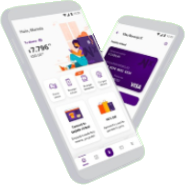
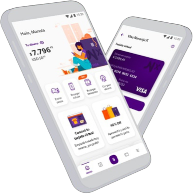
feat: draw the Galicia lockup, and take the artwork the second time round
Two things the row was missing and one it was getting wrong.

THE LOGOTYPE. The last card says «Somos parte del» and then stopped at a
line of type, on the argument that reproducing a third party's mark is
the one thing here that stops being a quotation. That argument was
overruled, and it holds up on inspection: the sentence names a company
and hangs in mid-air without it, this is nominative use, and the file is
the one Commons carries as public domain — below the threshold of
originality, trademark intact, credited to the group itself. The footer
already says the page is unofficial and the marks are their owners'.

`mark` is not dropped for it, it becomes the alt: the card reads «Somos
parte del Grupo Galicia» seen or spoken. And no colour of ours goes near
it. The rule above deepens OUR accent to clear 4.6:1 on peach; that
argument has no business being applied to somebody else's mark, so the
logotype lands at the orange it is drawn in.

THE ARTWORK, replaced with the four supplied second. These arrive with a
real alpha channel, so none of the keying the last commit needed applies
— just a trim of the transparent margin. Checked on violet, orange and
peach: no fringe anywhere, which is what a proper export looks like next
to one lifted off a baked ground.

THE CARD WAS CUT and is not any more. The old crop ran off its own
canvas at 167x192; the new file holds the whole card at 187x203.

Resolution improves and does not arrive. Measured against the box, which
[…]

diff --git a/src/style.css b/src/style.css
@@ -859,11 +859,11 @@
   font-weight: 500;
 }
 
-/* The last card in the row says who the company belongs to and then prints the
-   name. Set like a name — one size down from the shout, in the other ink, and
-   never below the size at which bold type is allowed to be this colour on this
-   ground. See `mark` in `src/brand/types.ts` for why it is type and not a
-   logotype. */
+/* The last card in the row says who the company belongs to and then names it.
+   Set like a name — one size down from the shout, in the other ink, and never
+   below the size at which bold type is allowed to be this colour on this
+   ground. This is the fallback: where the brand supplies the logotype, the rule
+   below draws that instead and these values never apply. */
 .stat-card__mark {
   font-size: clamp(20px, 1.8vw, 24px);
   line-height: 1.2;
@@ -875,6 +875,25 @@
      the one place on the page where the brand's other ink carries a whole line,
      and giving it up would have been giving up the card. */
   color: color-mix(in srgb, var(--color-brand-accent) 68%, var(--color-ink-950));
+}
+
+/* The logotype, where there is one. See `markLogo` in `src/brand/types.ts` for
+   why this page draws one third-party mark and only one.
+
+   Sized off the card rather than to a pixel height, because it is the only
+   thing in this row that is a fixed drawing: everything else reflows and a
+   logotype that did not would drift out of the measure as the row narrows. The
+   cap keeps it from outgrowing the shout above it at the widest column.
+
+   No colour of ours goes near it. A logotype is two inks its owner chose and
+   the contrast argument above — which deepens OUR accent to clear 4.6:1 — has
+   no business being applied to somebody else's mark. It lands on the peach card
+   at the orange it is drawn in. */
+.stat-card__logo {
+  display: block;
+  width: 82%;
+  max-width: 168px;
+  height: auto;
 }
 
 /* The drawing in the corner, at a sixth of the ink and bled off two edges so it

diff --git a/src/brand/blocks.ts b/src/brand/blocks.ts
@@ -52,7 +52,10 @@ const heroLine = (line: string): string => `<span class="hero-line">${escape(lin
  *
  * `data-reveal="side"` is that entrance; the delay is what spaces the five out.
  */
-function statCard({ value, unit, label, mark, motif, art, tint }: Stat, index: number): string {
+function statCard(
+  { value, unit, label, mark, markLogo, motif, art, tint }: Stat,
+  index: number,
+): string {
   // The figure gets an element of its own so it can be counted up as the card
   // arrives — see `countUp` in `src/page/PageMotion.ts`. It has to be its own
   // element rather than the whole line: the unit rides inside that line, and a
@@ -66,8 +69,15 @@ function statCard({ value, unit, label, mark, motif, art, tint }: Stat, index: n
     : counted
   // A name where the sentence would be, or the sentence. Never both: the card
   // that carries a lockup is the one card in the row that is not a figure.
+  //
+  // Where the brand has the logotype, that is what gets drawn — and `mark` is
+  // not dropped for it, it becomes the alt text. The card reads «Somos parte
+  // del Grupo Galicia» either way, seen or spoken.
+  const named = markLogo
+    ? `<img class="stat-card__logo" src="/${escape(markLogo)}" alt="${escape(mark ?? '')}" loading="lazy" decoding="async">`
+    : escape(mark ?? '')
   const under = mark
-    ? `<p class="stat-card__mark">${escape(mark)}</p>`
+    ? `<p class="stat-card__mark">${named}</p>`
     : `<p class="stat-card__label">${escape(label ?? '')}</p>`
   // Artwork if the brand has it, the drawn glyph if it does not, and never
   // both — see `art` in `types.ts`. `aria-hidden` either way: both of them say

diff --git a/src/brand/types.ts b/src/brand/types.ts
@@ -166,11 +166,26 @@ export type Stat = {
    * A name, set like one, in place of the sentence.
    *
    * The reference closes its row with «Somos parte del» over a logo. This is
-   * that line, and it is deliberately NOT the other company's mark: reproducing
-   * a third party's logotype inside a demo nobody at either company asked for
-   * is the one thing on this page that would stop being a quotation.
+   * that line. Where `markLogo` is set this text stays as the accessible name
+   * and the logotype is what gets drawn.
    */
   readonly mark?: string
+  /**
+   * The logotype for `mark`, as a file in `brand-assets/<id>/`.
+   *
+   * THE ONE THIRD-PARTY LOGOTYPE ON THIS PAGE, and it needs its reason written
+   * down. Everything else here quotes Naranja X, whose brand the whole demo is
+   * a study of; this is the mark of the group that owns them, and it is drawn
+   * because «Somos parte del» is a sentence that names a company and stops in
+   * mid-air without it.
+   *
+   * Nominative use: it identifies the company it belongs to and claims nothing.
+   * The file is the one Commons carries as public domain — below the threshold
+   * of originality, trademark intact, credited to the group itself — and the
+   * footer already states that the page is unofficial and that the marks are
+   * their owners'.
+   */
+  readonly markLogo?: string
   /**
    * The drawing in the bottom corner, as an inline `<svg>`. Decorative.
    *

diff --git a/src/brand/naranjax.ts b/src/brand/naranjax.ts
@@ -174,6 +174,7 @@ export const naranjax: Brand = {
       {
         value: 'Somos parte del',
         mark: 'Grupo Galicia',
+        markLogo: 'galicia.svg',
         tint: 'accent-soft',
         art: 'art-nx.png',
       },
